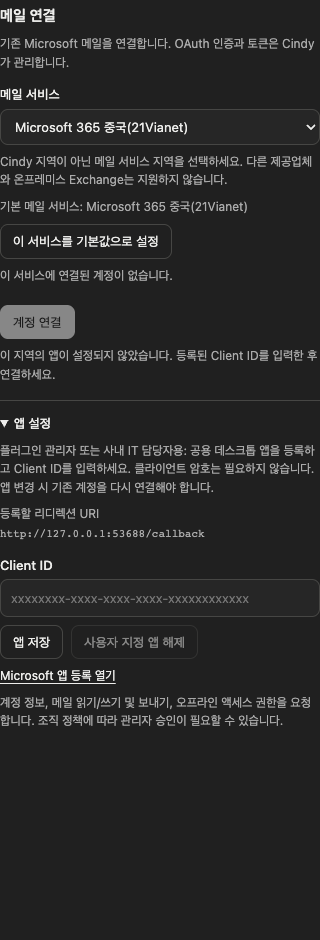
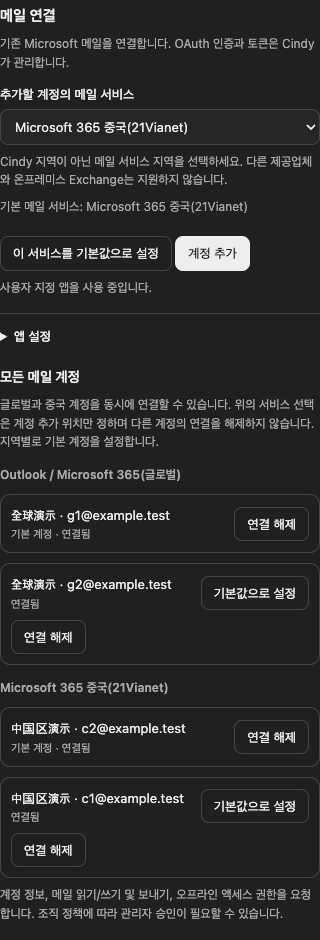
feat(outlook-mail): 同时管理全球和中国区多个邮箱账号

diff --git a/outlook-mail/settings.js b/outlook-mail/settings.js
@@ -40,23 +40,37 @@
     $('connect').disabled = busy || !loaded || !e?.clientConfigured;
     $('reset-client').disabled = busy || !e?.clientCustom;
     $('accounts').textContent = '';
-    if (loaded && !e?.accounts?.length) { const p = document.createElement('p'); p.className='hint'; p.textContent=t('noAccounts'); $('accounts').appendChild(p); }
-    for (const a of e?.accounts || []) {
-      const row = document.createElement('div'); row.className='account';
-      const name = document.createElement('span'); name.className='identity'; name.textContent=a.label || a.id;
-      const tag = document.createElement('span'); tag.className='tag';
-      tag.textContent = a.status !== 'connected' ? t('expired') : a.scopeStale ? t('scopeStale') : a.isDefault ? t('defaultAccount') : t('connected');
-      name.appendChild(tag); row.appendChild(name);
-      if (a.status !== 'connected' || a.scopeStale) addButton(row,t('reconnect'),connect);
-      if (!a.isDefault && a.status === 'connected') addButton(row,t('setDefault'),async () => {
-        await request('/oauth/'+c.key+'/default',{method:'POST',body:JSON.stringify({accountId:a.id})}); status(t('saved'));
-      });
-      addButton(row,t('disconnect'),async () => {
-        await request('/oauth/'+c.key+'/accounts/'+encodeURIComponent(a.id),{method:'DELETE'}); status(t('disconnected'));
-      });
-      $('accounts').appendChild(row);
+    if (!loaded) return;
+    // Account controls bind to the row's cloud, independently of the service
+    // selected for the next sign-in. Both groups remain visible and connected.
+    for (const [cloud,cfg] of Object.entries(clouds)) {
+      const groupEntry = entries.find(entry => entry.key === cfg.key);
+      const group = document.createElement('section');
+      group.className='account-group'; group.dataset.cloud=cloud;
+      const heading=document.createElement('h2');heading.textContent=t(cloud);
+      group.appendChild(heading);
+      if (!groupEntry?.accounts?.length) {
+        const note=document.createElement('p');note.className='hint';note.textContent=t('noAccounts');group.appendChild(note);
+      }
+      for (const a of groupEntry?.accounts || []) {
+        const row=document.createElement('div');row.className='account';row.dataset.accountId=a.id;
+        const name=document.createElement('span');name.className='identity';name.textContent=a.label || a.id;
+        const tag=document.createElement('span');tag.className='tag';
+        const labels=[a.isDefault ? t('defaultAccount') : '',a.status !== 'connected' ? t('expired') : a.scopeStale ? t('scopeStale') : t('connected')];
+        tag.textContent=labels.filter(Boolean).join(' · ');name.appendChild(tag);row.appendChild(name);
+        if (a.status !== 'connected' || a.scopeStale) addButton(row,t('reconnect'),()=>connect(cloud));
+        if (!a.isDefault && a.status === 'connected') addButton(row,t('setDefault'),async()=>{
+          await request('/oauth/'+cfg.key+'/default',{method:'POST',body:JSON.stringify({accountId:a.id})});status(t('saved'));
+        });
+        addButton(row,t('disconnect'),async()=>{
+          await request('/oauth/'+cfg.key+'/accounts/'+encodeURIComponent(a.id),{method:'DELETE'});status(t('disconnected'));
+        });
+        group.appendChild(row);
+      }
+      $('accounts').appendChild(group);
     }
   }
+
   async function load() {
     try {
       const values = await Promise.all([request('/oauth'),request('/kv')]);
@@ -73,9 +87,9 @@
     try { await fn(); } catch (e) { status(e.message || t('requestFailed')); }
     finally { await load(); busy=false; render(); }
   }
-  async function connect() {
+  async function connect(cloud = selected) {
     status(t('connecting'));
-    const r = await request('/oauth/'+clouds[selected].key+'/connect',{method:'POST'});
+    const r = await request('/oauth/'+clouds[cloud].key+'/connect',{method:'POST'});
     if (!r.ok) { status(errorText(r)); return; }
     status(t('connected')+': '+(r.account?.label || ''));
   }

diff --git a/outlook-mail/settings.html b/outlook-mail/settings.html
@@ -8,7 +8,6 @@
   <p class="hint" data-i18n="boundary">The region belongs to your email service, independently of your Cindy region. Other providers and on-premises Exchange are not supported.</p>
   <p id="default-label" class="hint"></p>
   <button id="default-cloud" type="button" data-i18n="defaultCloud">Use this service by default</button>
-  <div id="accounts" aria-live="polite"></div>
   <button id="connect" class="primary" type="button" data-i18n="connect" disabled>Connect account</button>
   <p id="setup-note" class="hint"></p>
   <details id="advanced"><summary data-i18n="advanced">Application setup</summary>
@@ -18,6 +17,9 @@
     <div class="actions"><button id="save-client" type="button" data-i18n="save">Save application</button><button id="reset-client" type="button" data-i18n="reset">Clear custom application</button></div>
     <p class="hint"><a id="portal" href="https://portal.azure.com" data-i18n="portal">Microsoft application registration</a></p>
   </details>
+  <h2 class="accounts-title" data-i18n="accountsTitle">All mail accounts</h2>
+  <p class="hint" data-i18n="multiAccountHelp">Global and China accounts stay connected together. Choose a service above to add another account.</p>
+  <div id="accounts" aria-live="polite"></div>
   <p class="hint" data-i18n="permissions">Permissions: account identity, email read/write and sending, and offline access. Enterprise policies may require administrator approval.</p>
   <p id="status" role="status" aria-live="polite"></p>
   <script src="/settings.js"></script>

diff --git a/outlook-mail/settings.css b/outlook-mail/settings.css
@@ -19,3 +19,7 @@ a { color: var(--text-primary); text-underline-offset: 3px; }
 code { overflow-wrap: anywhere; font-size: 11px; }
 #status { overflow-wrap: anywhere; }
 #status:empty { display: none; }
+
+.accounts-title { margin: 20px 0 4px; font-size: 14px; font-weight: 600; }
+.account-group { margin-top: 14px; }
+.account-group h2 { margin: 0; font-size: 12px; font-weight: 600; color: var(--text-secondary); }

diff --git a/outlook-mail/README.md b/outlook-mail/README.md
@@ -1,4 +1,4 @@
-# Outlook Mail for Cindy 2.0.1
+# Outlook Mail for Cindy 2.1.0
 
 Search, read, draft, send and organize Outlook, Hotmail, Live and Microsoft 365 cloud mail. Global and 21Vianet China accounts are isolated, with multiple accounts and a default per cloud. Other mail providers and on-premises Exchange opened in Outlook are not supported.
 
@@ -14,6 +14,8 @@ Install on Cindy 0.1.75 or later, open plugin settings, select the mailbox's ser
 
 Global accounts request User.Read, Mail.ReadWrite, Mail.Send, openid and offline_access. China uses the matching China Graph resource scopes. These are delegated user permissions, not tenant-wide application permissions. Tenant policy can require administrator consent. The settings page delegates connect, disconnect and default-account management to the Host; it stores only the default region in plugin KV.
 
+Settings show all connected accounts grouped by cloud at the same time. Add additional accounts without signing out existing ones; reconnecting an existing identity is handled by Host OAuth. Each account row binds reconnect, default and disconnect to its own cloud, even when the service selector points elsewhere. Mail calls with an explicit `account` target that account; otherwise `cloud` selects its default, and omitting both uses the saved default cloud. Disconnecting one account does not sign out other accounts or the other cloud. China still requires its separately configured application.
+
 ## Mail operations
 
 Tools provide account listing, KQL/structured search, reading, plain-text send with CC/BCC, drafts, paginated folders, read/unread and moving mail. Reading does not mark mail read. Writes require explicit user intent; check sender, recipients and content. Send success means Microsoft accepted the request, not confirmed delivery. For executed or unknown failures, inspect the mailbox before repeating. The plugin never retries a mail request; OAuth refresh/retry behavior belongs to the Host.
@@ -24,6 +26,6 @@ Requests are capped at approximately 250 KB, 100 recipients and 50 results per p
 
 2.0.0 replaces the SDK authentication route. Former SDK sessions and saved SDK account metadata are not reused; reconnect through Host OAuth. Other local Microsoft tools' credential caches are not read or cleared. There is no automatic login restoration from legacy plugin KV.
 
-Run `node --test .tests/outlook-mail.test.mjs` and the repository contract/localization/provisioning/publish-workflow tests. Package with `.github/scripts/package-plugin.sh outlook-mail /tmp/outlook-mail-2.0.1.cindy` after committing. Browser tests use mocked Host endpoints and synthetic accounts, not real OAuth evidence; see `.tests/outlook-mail/settings-browser.mjs`.
+Run `node --test .tests/outlook-mail.test.mjs` and the repository contract/localization/provisioning/publish-workflow tests. Package with `.github/scripts/package-plugin.sh outlook-mail /tmp/outlook-mail-2.1.0.cindy` after committing. Browser tests use mocked Host endpoints and synthetic accounts, not real OAuth evidence; see `.tests/outlook-mail/settings-browser.mjs`.
 
 The administrator supplied the global public application ID on 2026-09-09. Its registered redirect URI, supported account types and delegated permissions still require real sign-in verification. No live Host OAuth sign-in or production-client mail verification has been completed for this version. Earlier SDK development-package results do not validate this version. New-plugin admission and final production verification remain maintainer review items. Provisioning is an empty targeted audience, with no automatic distribution. The PR remains open for review; tests and package limits are not weakened.

diff --git a/outlook-mail/README.zh-CN.md b/outlook-mail/README.zh-CN.md
@@ -1,4 +1,4 @@
-# Outlook 邮箱插件 2.0.1
+# Outlook 邮箱插件 2.1.0
 
 搜索、阅读、起草、发送和整理 Outlook、Hotmail、Live 与 Microsoft 365 云端邮件。全球版和世纪互联中国区分别管理多账号及默认账号。不支持其他邮箱服务商或仅使用 Outlook 客户端打开的本地 Exchange 邮箱。
 
@@ -14,6 +14,8 @@
 
 全球版申请 User.Read、Mail.ReadWrite、Mail.Send、openid 和 offline_access；中国区使用对应中国区 Graph 资源权限。这些均为用户委托权限，不是全租户 Application 权限；租户策略可能要求管理员批准。连接、断开和默认账号管理全部交给 Host，插件 KV 仅保存默认服务区域。
 
+设置页同时按区域展示全部已连接账号，可以持续添加多个账号，不必退出已有账号；同一身份重新授权由 Host 作为重连处理。每行的重连、默认和断开操作绑定该账号自身的区域，不受上方新增账号服务选择影响。邮件调用传 `account` 时使用指定账号；只传 `cloud` 时使用该区域默认账号；都不传时使用保存的默认区域及其默认账号。断开一个账号不会退出其他账号或另一区域。中国区仍需配置独立应用。
+
 ## 邮件操作
 
 提供账号列表、KQL／结构化搜索、阅读、带 CC/BCC 的纯文本发送、草稿、分页文件夹、已读／未读及移动。读取不标记已读。写操作必须来自明确用户意图，并核对发件账号、收件人和内容。发送成功只表示微软接受，不代表送达。执行状态为 executed 或 unknown 的失败，必须先检查邮箱再决定是否重复。插件不重试邮件请求；OAuth 刷新及相关重试由 Host 决定。
@@ -24,6 +26,6 @@
 
 2.0.0 替换 SDK 授权路径，旧 SDK 会话与保存的账号元数据不再使用，需要通过 Host OAuth 重新连接。不会读取或清理其他微软工具的凭据缓存，也不会从旧 KV 自动恢复登录。
 
-运行 `node --test .tests/outlook-mail.test.mjs` 和仓库规定的契约、本地化、provisioning、发布流程检查。提交后使用 `.github/scripts/package-plugin.sh outlook-mail /tmp/outlook-mail-2.0.1.cindy` 打包。浏览器测试使用模拟 Host 接口与虚构账号，不作为真实 OAuth 证据；见 `.tests/outlook-mail/settings-browser.mjs`。
+运行 `node --test .tests/outlook-mail.test.mjs` 和仓库规定的契约、本地化、provisioning、发布流程检查。提交后使用 `.github/scripts/package-plugin.sh outlook-mail /tmp/outlook-mail-2.1.0.cindy` 打包。浏览器测试使用模拟 Host 接口与虚构账号，不作为真实 OAuth 证据；见 `.tests/outlook-mail/settings-browser.mjs`。
 
 管理员于 2026-09-09 提供了全球版公共应用 ID；其回调、支持的账号类型及委托权限仍需真实登录核对。本版本尚未完成真实 Host OAuth 登录或正式客户端邮件验收，不能沿用早期 SDK 开发包的实机结果。新插件准入和最终实机验收仍需维护者审查。provisioning 是空定向名单，不自动分发；PR 保持正式待审，测试及打包限制不作放宽。
